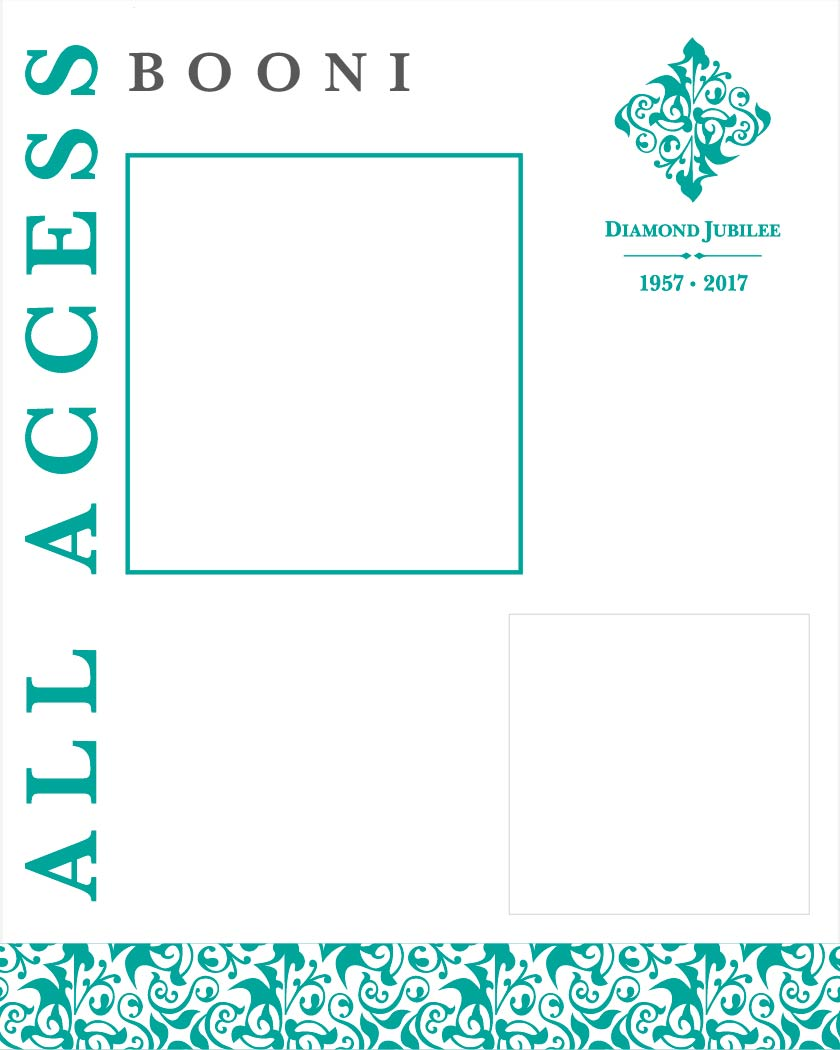
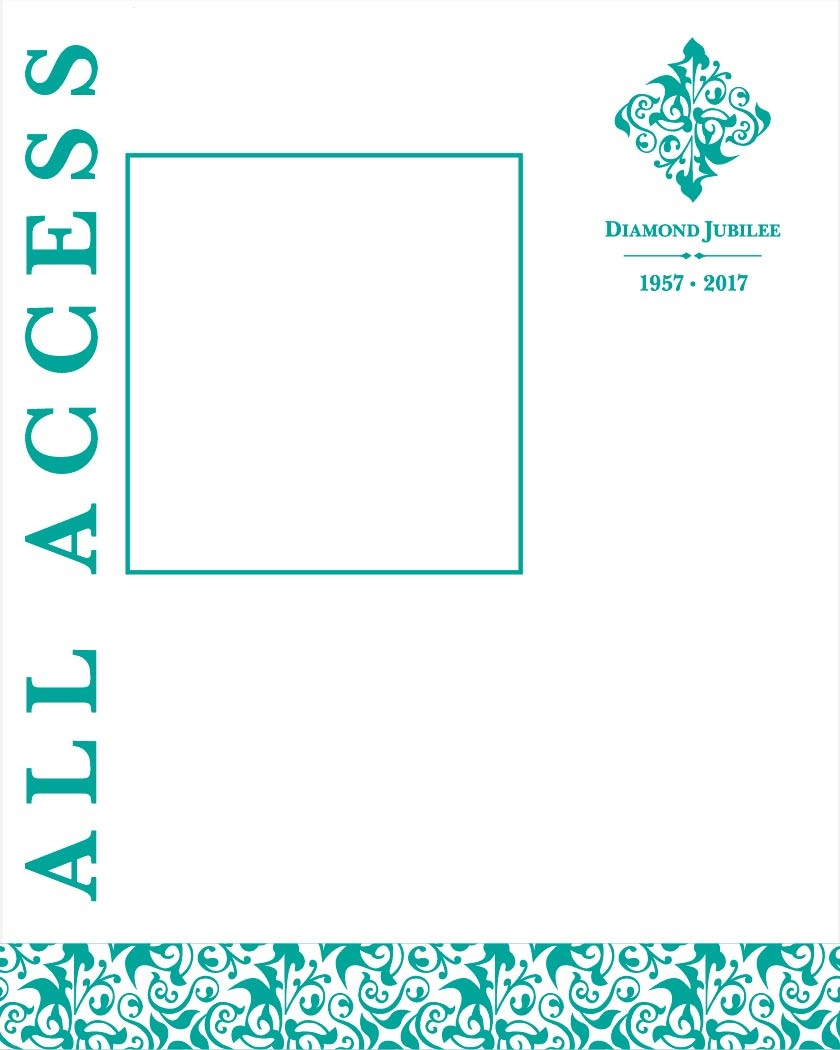
new card layout added

Changed region(s): [[0.3095, 0.0305, 0.4333, 0.0914], [0.1548, 0.0305, 0.2786, 0.0914], [0.4643, 0.0305, 0.4952, 0.0914]]

diff --git a/src/main/java/com/system/demo/volunteer/printer/CardPrinter.java b/src/main/java/com/system/demo/volunteer/printer/CardPrinter.java
@@ -33,20 +33,20 @@ public class CardPrinter {
 
     int pageWidth = 580;
     int pageHeight = 850;
-    int titlefontSize = 11;
+    int titlefontSize = 15;
     int namefontSize = 12;
-    int smallfontSize = 10;
+    int smallfontSize = 11;
     int zonefontSize = 15;
     Random rand = new Random();
 
     String PDF_PW = Integer.toString(rand.nextInt(9999) + 1000);// "1423";
 
     public Font smallfont = new Font(Font.FontFamily.TIMES_ROMAN, smallfontSize, Font.BOLD,
-        BaseColor.BLACK);
+        new BaseColor(86,86,86));
     public Font namefont = new Font(Font.FontFamily.TIMES_ROMAN, namefontSize, Font.BOLD,
         BaseColor.BLACK);
     public Font titleFont = new Font(Font.FontFamily.TIMES_ROMAN, titlefontSize, Font.BOLD,
-        BaseColor.BLACK);
+        new BaseColor(88,88,88));
     public Font zoneFont = new Font(Font.FontFamily.TIMES_ROMAN, zonefontSize, Font.BOLD,
         BaseColor.BLACK);
 
@@ -245,51 +245,67 @@ public class CardPrinter {
 
         Image qr_image = getQRImage(EncryptMsg, writer);
         qr_image.setAbsolutePosition(
-            cardStartX + 10,
-            cardStartY + 90);
-        qr_image.scalePercent(65);
+            cardStartX + 122.2f,
+            cardStartY + 32.6f);
+        qr_image.scalePercent(73.1f);
         qr_code_Example.add(qr_image);
 
         imageUrl = volunteer.getVolunteerImage();//"D://person.jpg";
         jpg = Image.getInstance(imageUrl);
-        jpg.scaleAbsolute(64f, 64f);
-        jpg.setAbsolutePosition(cardStartX + 104, cardStartY + 100);
+        jpg.scaleAbsolute(92.8f, 98.4f);
+        jpg.setAbsolutePosition(cardStartX + 28.83f, cardStartY + 115.5f);
         qr_code_Example.add(jpg);
 
         PdfContentByte cb = writer.getDirectContent();
         ColumnText ct = new ColumnText(cb);
-        Phrase myText = new Phrase( (volunteer.getVolunteerName()!=null)?volunteer.getVolunteerName().toUpperCase() : "" , namefont);
-        ct.setSimpleColumn(myText, cardStartX - 73, cardStartY + 66,
-            cardStartX + (pageWidth / 2), cardStartY + 82, 6, Element.ALIGN_CENTER);
+
+        String VolFirstName = "";
+        String VolSecondName = "";
+        if(volunteer.getVolunteerName() != null) {
+            String VolName[] = volunteer.getVolunteerName().toUpperCase().split(" ");
+            VolFirstName = VolName[0];
+            if(VolName.length > 1)
+                VolSecondName = VolName[1];
+        }
+        Phrase myText = new Phrase( VolFirstName , namefont);
+        ct.setSimpleColumn(myText, cardStartX + 29, cardStartY + 92,
+            cardStartX + (pageWidth / 2), cardStartY + 102, 6, Element.ALIGN_LEFT);
         ct.go();
 
-        myText = new Phrase( (volunteer.getVolunteerCommittee()!=null)?volunteer.getVolunteerCommittee() : "" , smallfont);
-        ct.setSimpleColumn(myText, cardStartX - 73, cardStartY + 56,
-            cardStartX + (pageWidth / 2), cardStartY + 66, 6, Element.ALIGN_CENTER);
+        myText = new Phrase( VolSecondName , namefont);
+        ct.setSimpleColumn(myText, cardStartX + 29, cardStartY + 78.5f,
+            cardStartX + (pageWidth / 2), cardStartY + 88.5f, 6, Element.ALIGN_LEFT);
+        ct.go();
+
+
+        myText = new Phrase( (volunteer.getVolunteerCommittee()!=null)?volunteer.getVolunteerCommittee().toUpperCase() : "" , smallfont);
+        ct.setSimpleColumn(myText, cardStartX + 29, cardStartY + 62,
+            cardStartX + (pageWidth / 2), cardStartY + 72, 6, Element.ALIGN_LEFT);
         ct.go();
 
         myText = new Phrase( (volunteer.getVolunteerCnic()!=null)?volunteer.getVolunteerCnic(): "" , smallfont);
-        ct.setSimpleColumn(myText, cardStartX - 73, cardStartY + 43,
-            cardStartX + (pageWidth / 2), cardStartY + 53, 6, Element.ALIGN_CENTER);
+        ct.setSimpleColumn(myText, cardStartX + 29, cardStartY + 46.5f,
+            cardStartX + (pageWidth / 2), cardStartY + 56.5f, 6, Element.ALIGN_LEFT);
         ct.go();
 
         //local council
-        myText = new Phrase( (volunteer.getLocalCouncil()!=null)?volunteer.getLocalCouncil(): "" , smallfont);
-        ct.setSimpleColumn(myText, cardStartX - 73, cardStartY + 30,
-            cardStartX + (pageWidth / 2), cardStartY + 40, 6, Element.ALIGN_CENTER);
+        myText = new Phrase( (volunteer.getLocalCouncil()!=null)?volunteer.getLocalCouncil().toUpperCase(): "" , smallfont);
+        ct.setSimpleColumn(myText, cardStartX + 29, cardStartY + 33,
+            cardStartX + (pageWidth / 2), cardStartY + 43, 6, Element.ALIGN_LEFT);
         ct.go();
 
-        //Zone
+       /* //Zone
         myText = new Phrase( (volunteer.getDutyZone()!=null)?volunteer.getDutyZone().toUpperCase(): "" , zoneFont);
         ct.setSimpleColumn(myText, cardStartX - 73, cardStartY - 10,
             cardStartX + (pageWidth / 2), cardStartY + 22, 6, Element.ALIGN_CENTER);
-        ct.go();
-
-        /*//Header title
-        myText = new Phrase( (volunteer.getVolunteerSite()!=null)?volunteer.getVolunteerSite().toUpperCase(): "" , titleFont);
-        ct.setSimpleColumn(myText, cardStartX - 73, cardStartY + 162, cardStartX + (pageWidth / 2),
-            cardStartY + 175, 6, Element.ALIGN_CENTER);
         ct.go();*/
+
+        //Header title
+        myText = new Phrase( (volunteer.getVolunteerSite()!=null)?volunteer.getVolunteerSite().toUpperCase(): "" , titleFont);
+        ct.setSimpleColumn(myText, cardStartX + 29, cardStartY + 225, cardStartX + (pageWidth / 2),
+            cardStartY + 235, 6, Element.ALIGN_LEFT
+        );
+        ct.go();
     }
 
     public Image getQRImage(String EncryptMsg, PdfWriter writer) throws Exception {
@@ -297,7 +313,7 @@ public class CardPrinter {
         //Step-6: Get Image corresponding to the input string
         Image qr_image = my_code.getImage();
 
-        qr_image = cropImage(writer, qr_image, 10, 10, 10, 10);
+        qr_image = cropImage(writer, qr_image, 26, 26, 26, 26);
 
         return qr_image;
     }

diff --git a/src/main/java/com/system/demo/volunteer/VolunteerController.java b/src/main/java/com/system/demo/volunteer/VolunteerController.java
@@ -265,12 +265,12 @@ public class VolunteerController {
         List<Volunteer> printableVolunteers = volunteerService.findPrintableVolunteers();
         String pathOfFile = cardPrinter.print(printableVolunteers);
 
-        printableVolunteers.stream()
+       /* printableVolunteers.stream()
             .map(volunteer -> {
                 volunteer.setVolunteerIsPrinted(true);
                 return volunteer;
             })
-            .forEach(volunteerService::save);
+            .forEach(volunteerService::save);*/
 
         File file = new File(pathOfFile);
         response.setContentLength((int) file.length());
